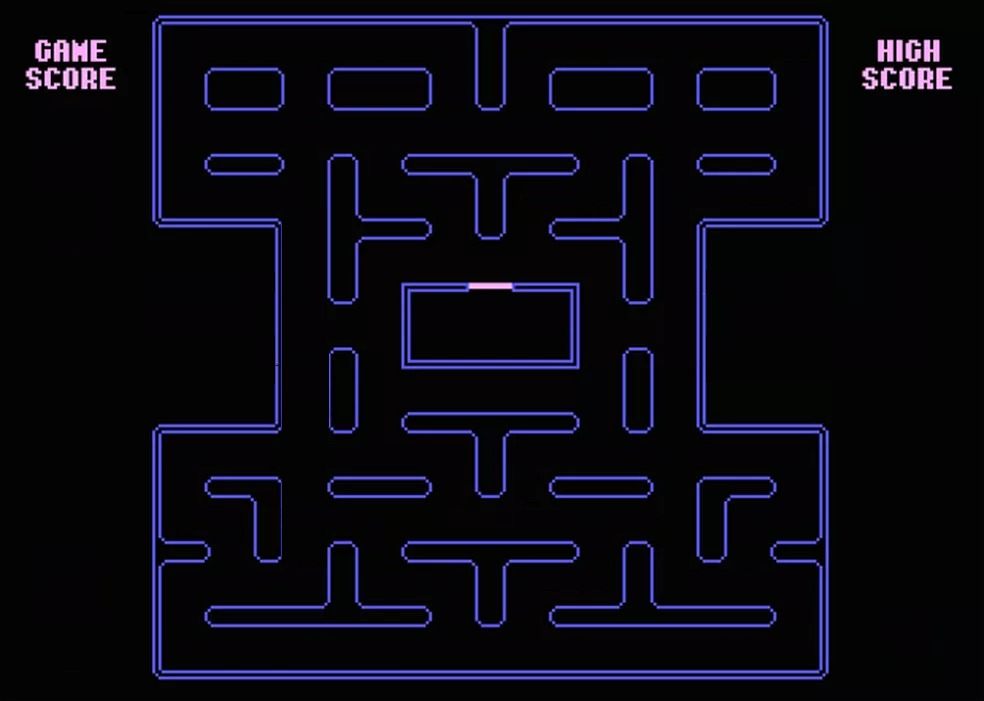
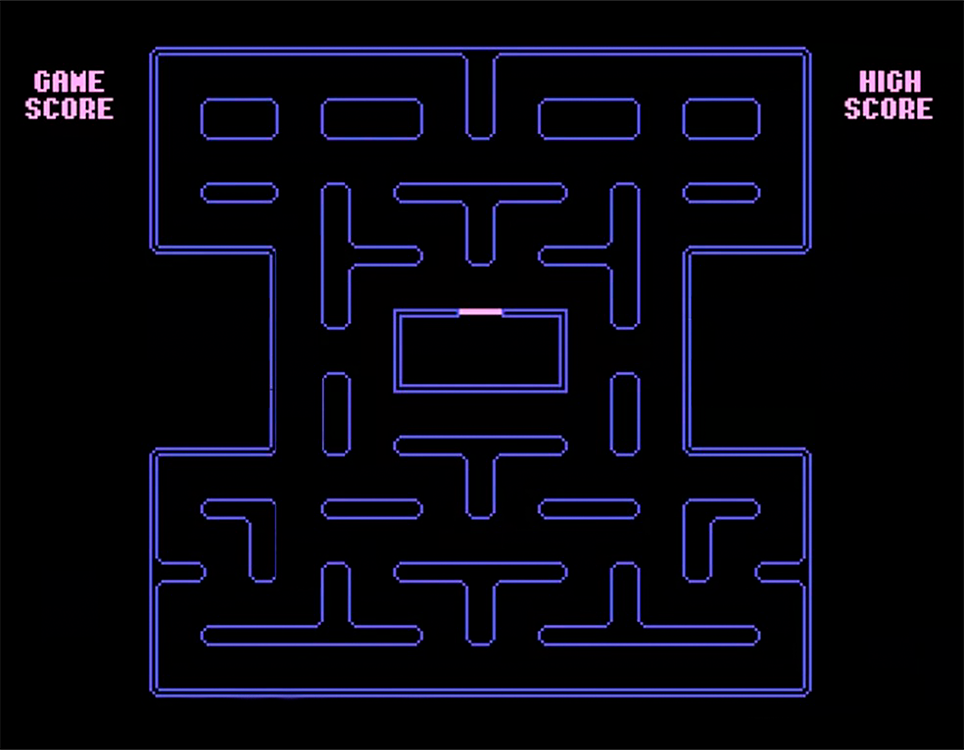
Simetria do Mapa

diff --git a/Projeto/Main.cpp b/Projeto/Main.cpp
@@ -11,8 +11,8 @@
 using namespace std;
 
 const float FPS = 60;
-const int SCREEN_W = 984;
-const int SCREEN_H = 701;
+const int SCREEN_W = 964;//Tab Interno 630 = 21*30
+const int SCREEN_H = 750;//Tab Interno x   = x*30
 
 int main(int argc, char **argv)
 {
@@ -27,8 +27,10 @@ int main(int argc, char **argv)
    //ALLEGRO_SAMPLE *sample=NULL, *sample2=NULL;
    //ALLEGRO_SAMPLE_INSTANCE *instance = NULL, *instance2 = NULL;
 
-   float darth_x = 170;
-   float darth_y = 30;
+   float darth_x = 165;
+   float darth_y = 60;
+
+   int darthL = 30, darthA = 30;//Largura e Altura
 
    //Vetor de Teclas
    bool teclas[255] = {false};
@@ -107,7 +109,7 @@ int main(int argc, char **argv)
    ALLEGRO_FONT* font20 = al_load_font("src/Fonts/Roboto-Regular.ttf", 20, NULL);
 
    ALLEGRO_BITMAP  *darth;
-   int darthL = 30, darthA = 30;//Largura e Altura
+
    darth = al_load_bitmap("src/Images/pacman.png");//200x600
    if(!darth) {
       fprintf(stderr, "failed to create darth bitmap!\n");
@@ -163,7 +165,7 @@ int main(int argc, char **argv)
    int tempo, miliseg = 200;
 
    bool top = false;
-   bool right = true;
+   bool right = false;
    bool booton = false;
    bool left = false;
    int lado = 0;
@@ -231,19 +233,19 @@ int main(int argc, char **argv)
         left = false;
         lado = 0;
     }
-	    if(top == true && darth_y >= 30) {
+	    if(top == true && darth_y >= 60) {
             darth_y -= 2.0;
         }
 
-         if(booton == true && darth_y <= 665 - darthA) {
+         if(booton == true && darth_y <= 680 - darthA) {
             darth_y += 2.0;
          }
 
-         if(left == true && darth_x >= 170) {
+         if(left == true && darth_x >= 165) {
             darth_x -= 2.0; 
          }
 
-         if(right == true && darth_x <= 815 - darthL) {
+         if(right == true && darth_x <= 795 - darthL) {
 
             darth_x += 2.0;
          }
